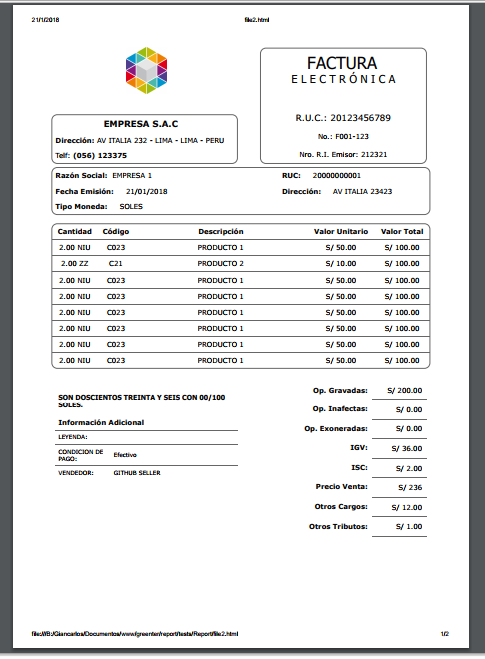
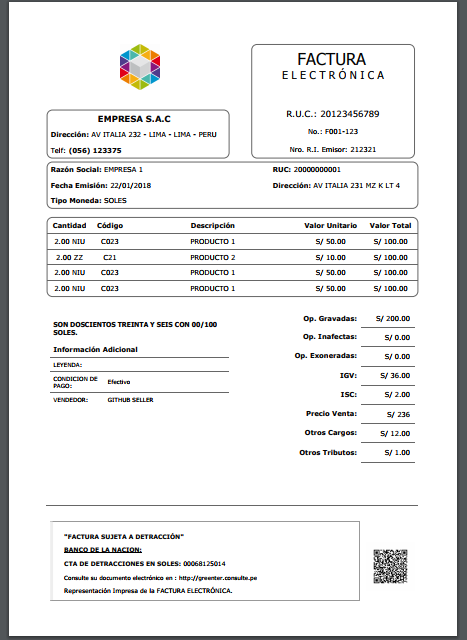
add features details

Changed region(s): [[0.0899, 0.0625, 0.8994, 0.8438], [0.0, 0.0, 1.0, 1.0], [0.7794, 0.8438, 0.8694, 0.9375]]

diff --git a/packages/report/README.md b/packages/report/README.md
@@ -8,6 +8,10 @@
 Representación en formato HTML del comprobante electrónico empleado en la facturación electrónica - SUNAT - Perú.
 > Para generar el PDF puede utilizar [wkhtmltopdf](https://wkhtmltopdf.org/) y/o [greenter/htmltopdf](https://github.com/giansalex/greenter-htmltopdf).
 
+## Preview
+
+![Factura](docs/factura.png)
+
 ## Documents
 - [x] Factura Electrónica  
 - [x] Boleta Electrónica  
@@ -17,6 +21,9 @@ Representación en formato HTML del comprobante electrónico empleado en la fact
 - [ ] Retención Electrónica  
 - [ ] Percepción Electrónica  
 
-## Result
-
-![Factura](docs/factura.png)
+## Features
+- Generacion de Codigo QR
+- Obtenecion del Hash de la firma digital
+- Agregar cabecera y pie de pagina personalizado
+- Agregar datos extras al comprobante
+- Crear nuevas plantillas segun sus necesidades
